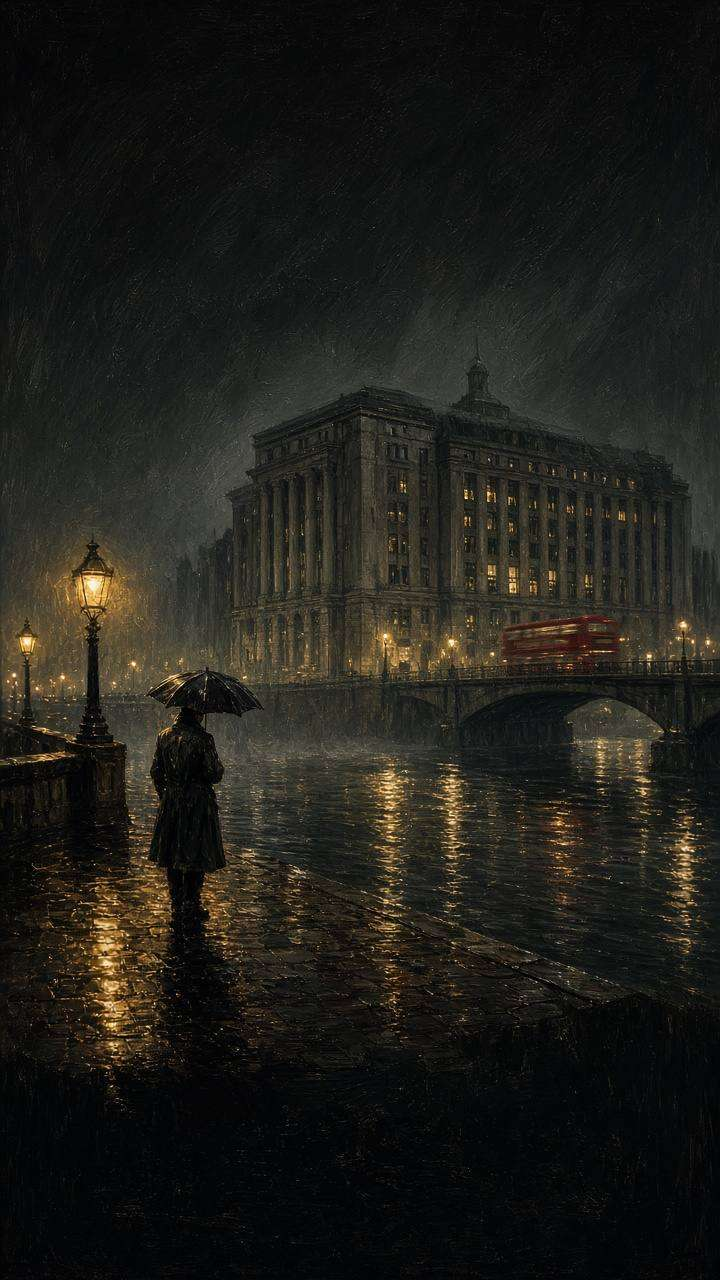
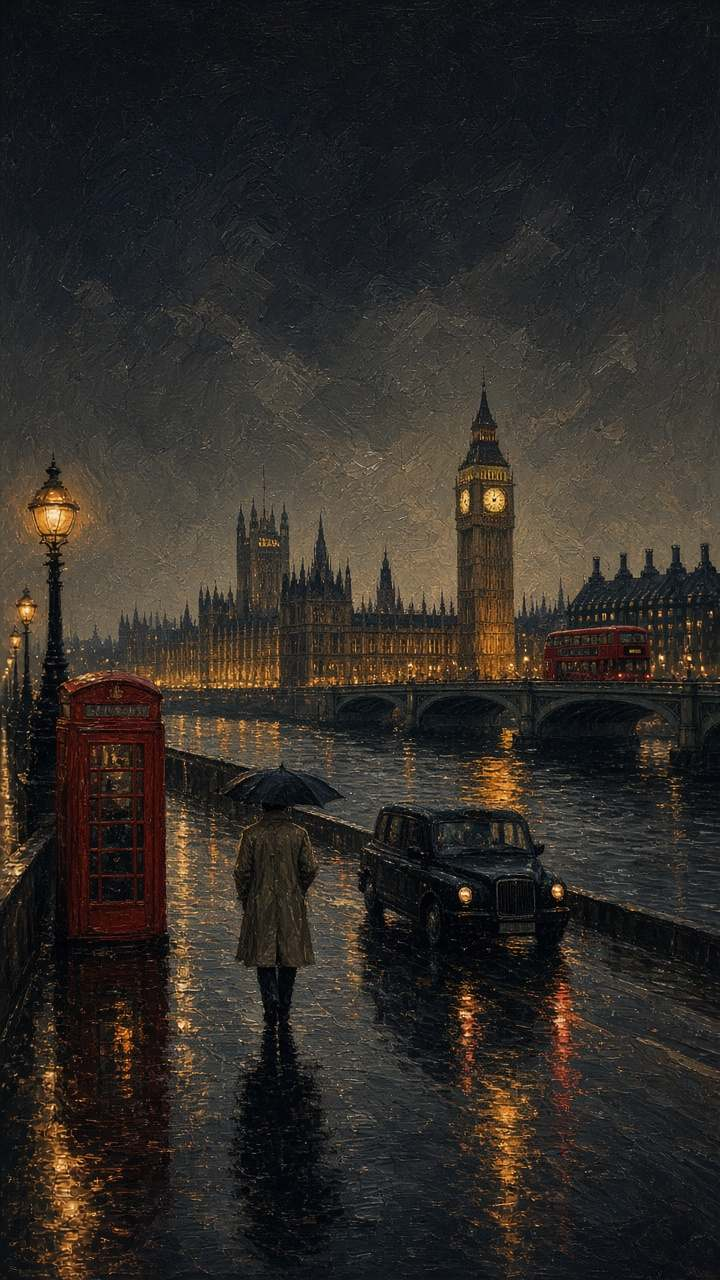
Spy prototype: make Albion House unmistakably British (Westminster title, No.10 scene, HMG paperwork, flag motifs)

diff --git a/spy/spy.js b/spy/spy.js
@@ -73,9 +73,10 @@
   const EMBLEM = '<svg class="emblem" viewBox="0 0 100 100" aria-hidden="true"><defs><linearGradient id="br" x1="0" y1="0" x2="0" y2="1"><stop offset="0" stop-color="#f0d68a"/><stop offset=".55" stop-color="#c9a24a"/><stop offset="1" stop-color="#7a5d22"/></linearGradient></defs>' +
     '<circle cx="50" cy="50" r="47" fill="#1f3a2f" stroke="url(#br)" stroke-width="4"/><circle cx="50" cy="50" r="40" fill="none" stroke="url(#br)" stroke-width="1"/>' +
     '<path d="M50 16 l4 9 h10 l-8 6 3 9 -9 -6 -9 6 3 -9 -8 -6 h10z" fill="url(#br)"/>' +
-    '<path d="M28 44 h44 v14 c0 12 -10 20 -22 24 c-12 -4 -22 -12 -22 -24z" fill="#7a1f1f" stroke="url(#br)" stroke-width="2"/>' +
-    '<path d="M33 60 q4 -4 8 0 t8 0 t8 0 t8 0 M33 67 q4 -4 8 0 t8 0 t8 0 t8 0" fill="none" stroke="#efe6d2" stroke-width="2"/>' +
-    '<path d="M40 52 h20" stroke="url(#br)" stroke-width="3"/></svg>';
+    '<clipPath id="sh"><path d="M28 44 h44 v14 c0 12 -10 20 -22 24 c-12 -4 -22 -12 -22 -24z"/></clipPath><g clip-path="url(#sh)" opacity=".85"><rect x="20" y="40" width="60" height="46" fill="#22305a"/>' +
+    '<path d="M20 40 L80 86 M80 40 L20 86" stroke="#efe6d2" stroke-width="8"/><path d="M20 40 L80 86 M80 40 L20 86" stroke="#9c2a2a" stroke-width="3"/>' +
+    '<path d="M50 40 V86 M20 63 H80" stroke="#efe6d2" stroke-width="11"/><path d="M50 40 V86 M20 63 H80" stroke="#9c2a2a" stroke-width="6"/></g>' +
+    '<path d="M28 44 h44 v14 c0 12 -10 20 -22 24 c-12 -4 -22 -12 -22 -24z" fill="none" stroke="url(#br)" stroke-width="2"/></svg>';
   // ---------- state ----------
   let S;
   function fresh() {
@@ -116,16 +117,18 @@
   // ---------- screens ----------
   function title() {
     chrome(false);
-    render('<div class="title"><div>' + EMBLEM + '<h1>Albion House</h1><div class="sub">The Overseas Intelligence Bureau</div></div>' +
-      '<div><p class="tag">London. Rain on the river. Four problems before midnight.</p><button class="btn primary" id="go">Take the chair</button><div class="fine">A work of fiction. All states, services, firms and people are invented.</div></div></div>');
+    render('<div class="title"><div>' + EMBLEM + '<h1>Albion House</h1><div class="sub">British Secret Intelligence</div><div class="flagband" aria-hidden="true"></div></div>' +
+      '<div><p class="tag">London. Rain on the river, Big Ben striking eight. Four problems before midnight.</p><button class="btn primary" id="go">Take the chair</button><div class="fine">A work of fiction. Albion House and every state, firm and person in it are invented.</div></div></div>');
     $("go").onclick = intro;
   }
   function intro() {
     chrome(false);
-    render('<div class="card" style="margin-top:calc(var(--safe-t) + 18px)"><span class="stamp corner">SECRET</span><div class="kicker">Personal file \u00b7 For the Chief only</div><h2 style="margin-top:10px">You are \u2018C\u2019.</h2>' +
-      '<p>You head <strong>Albion House</strong>, Britain\u2019s overseas intelligence service (invented), in a grey stone building on the Thames. You answer to the Prime Minister, <strong>Eleanor Hale</strong>, and to nobody else.</p>' +
+    render('<figure class="no10" id="no10"><img src="' + pic("no10") + '" alt="The Prime Minister hands C a file in a study at Number 10, a Union Flag by the window"><figcaption>10 Downing Street \u00b7 the study, 07:10</figcaption></figure>' +
+      '<div class="card dossier"><div class="lh">HIS MAJESTY\u2019S GOVERNMENT \u00b7 TOP SECRET \u00b7 UK EYES ONLY</div><span class="stamp corner">SECRET</span><div class="kicker">Personal file \u00b7 For C only</div><h2 style="margin-top:10px">You are \u2018C\u2019.</h2>' +
+      '<p>You are the Chief of <strong>Albion House</strong>, Britain\u2019s foreign intelligence service: the people who run Britain\u2019s spies abroad. (It\u2019s invented, but you\u2019ll know the type.) Your office looks across the Thames at Westminster. You answer to the Prime Minister, <strong>Eleanor Hale</strong>, at Number 10, and to nobody else.</p>' +
+      '<p>She has just handed you the morning file in her study. \u201cKeep Britain safe, C. And keep it out of the papers.\u201d</p>' +
       '<p>Your Chief of Staff, <strong>Kite</strong>, runs the building. Your officers in the field are brave, tired, and not all of them are entirely yours.</p>' +
-      '<p>Today four problems reach your desk. You have <strong>three officers</strong> and <strong>one day</strong>. You can\u2019t fix everything. Each choice moves four gauges: public trust, No.10\u2019s favour, officer safety and secrecy.</p>' +
+      '<p>Back across Whitehall, four problems reach your desk. You have <strong>three officers</strong> and <strong>one day</strong>. You can\u2019t fix everything. Each choice moves four gauges: public trust, No.10\u2019s favour, officer safety and secrecy.</p>' +
       '<button class="btn primary" id="go">Read the morning brief</button></div>');
     $("go").onclick = function () { chrome(true); meters(); ticker(); briefing(); };
   }
@@ -136,17 +139,17 @@
   function briefing() {
     if (!freeAgents().length || !remaining().length) return summary();
     const first = !S.log.length, flash = S.order.indexOf("sabotage") >= 0 && !S.done.sabotage, fresh = flash && !S.flashShown;
-    const line = first ? "Morning, C. Three files on the desk, three officers on the bench. Start with the one that frightens you most. Mind the deadlines."
+    const line = first ? "Morning, C. Tea\u2019s on the desk. Three files on the desk, three officers on the bench. Start with the one that frightens you most. Mind the deadlines."
       : fresh ? "<b>Flash from the night desk.</b> Someone means to cut a North Sea cable tonight. Two reports, two places. I\u2019ve put it top of the pile."
       : "Next. " + freeAgents().length + " officer" + (freeAgents().length > 1 ? "s" : "") + " left. Whatever we don\u2019t touch today will sort itself out, badly.";
     if (flash) S.flashShown = true;
     let list = "", n = 0;
     S.order.forEach(function (id) {
       const s = SITS[id], done = S.done[id], late = !done && S.hour >= s.due; n++;
-      list += '<button class="card sit' + (done ? " done" : "") + (s.flash && !done ? " flash" : "") + '" data-sit="' + id + '"' + (done ? " disabled" : "") + '><span class="num">' + ["I", "II", "III", "IV"][n - 1] + '</span><span><div class="t">' + esc(s.title) + '</div><div class="s">' + esc(s.where) + '</div></span><span class="dl">' +
+      list += '<button class="card dossier sit' + (done ? " done" : "") + (s.flash && !done ? " flash" : "") + '" data-sit="' + id + '"' + (done ? " disabled" : "") + '><span class="num">' + ["I", "II", "III", "IV"][n - 1] + '</span><span><div class="t">' + esc(s.title) + '</div><div class="s">' + esc(s.where) + '</div></span><span class="dl">' +
         (done ? (done === "win" ? "CLOSED" : done === "mixed" ? "PARTIAL" : "FAILED") : late ? "OVERDUE" : "by " + s.due + ":00") + "</span></button>";
     });
-    render('<div class="kicker">Morning brief \u00b7 Albion House</div>' + kite(line, fresh) + map() + list, "Tap a file to deal with it.");
+    render('<div class="lh paper">HIS MAJESTY\u2019S GOVERNMENT \u00b7 TOP SECRET \u00b7 UK EYES ONLY</div><div class="kicker">Morning brief for C \u00b7 Albion House</div>' + kite(line, fresh) + map() + list, "Tap a file to deal with it.");
     document.querySelectorAll("[data-sit]").forEach(function (b) { b.onclick = function () { const id = b.getAttribute("data-sit"); id === "sabotage" && !S.belief ? judgement() : pickAgent(id); }; });
   }
 
@@ -185,7 +188,7 @@
         return '<button class="card agent' + (pick === k ? " sel" : "") + (used ? " used" : "") + '" data-a="' + k + '"><img class="portrait" src="' + pic(st >= 4 ? a.alt : a.img) + '" alt=""><div style="flex:1;min-width:0"><div class="nm">' + a.name + (used ? " \u00b7 in the field" : "") + '</div><div class="role">' + a.role + '</div><div class="traits">' +
           pips(a.skill, "", "Skill") + pips(a.loyalty, "", "Loyalty") + pips(st, "stress" + (st >= 4 ? " high" : ""), "Stress") + pips(a.cover, "", "Cover") + '</div><div class="fit' + (fit ? "" : " bad") + '">' + (fit ? "\u2713 Right person for this" : "Not their line of work") + (id === "mole" && a.loyalty <= 2 ? " \u00b7 loyalty in doubt" : "") + "</div></div></button>";
       }).join("");
-      render('<div class="step"><i class="on"></i><i></i></div><div class="card"><span class="stamp corner">CONFIDENTIAL</span><div class="kicker">' + esc(s.where) + " \u00b7 by " + s.due + ":00" + (S.hour >= s.due ? " \u00b7 OVERDUE" : "") + '</div><h2 style="margin-top:8px;padding-right:110px">' + esc(s.title) + "</h2><p>" + esc(s.brief) + (id === "sabotage" ? " <strong>You\u2019re defending: " + (S.belief === "split" ? "both sites" : S.belief) + ".</strong>" : "") + '</p></div><div class="kicker" style="margin:4px 0 8px">Who do you send?</div><div class="agents">' + cards + '</div><div class="sticky-go"><button class="btn primary" id="go"' + (pick ? "" : " disabled") + ">" + (pick ? "Send " + AGENTS[pick].name.split(" ")[0] : "Choose an officer") + '</button></div><button class="btn ghost" id="back">Back to the brief</button>',
+      render('<div class="step"><i class="on"></i><i></i></div><div class="card dossier"><div class="lh">HIS MAJESTY\u2019S GOVERNMENT \u00b7 TOP SECRET \u00b7 UK EYES ONLY</div><span class="stamp corner">CONFIDENTIAL</span><div class="kicker">' + esc(s.where) + " \u00b7 by " + s.due + ":00" + (S.hour >= s.due ? " \u00b7 OVERDUE" : "") + '</div><h2 style="margin-top:8px;padding-right:110px">' + esc(s.title) + "</h2><p>" + esc(s.brief) + (id === "sabotage" ? " <strong>You\u2019re defending: " + (S.belief === "split" ? "both sites" : S.belief) + ".</strong>" : "") + '</p></div><div class="kicker" style="margin:4px 0 8px">Who do you send?</div><div class="agents">' + cards + '</div><div class="sticky-go"><button class="btn primary" id="go"' + (pick ? "" : " disabled") + ">" + (pick ? "Send " + AGENTS[pick].name.split(" ")[0] : "Choose an officer") + '</button></div><button class="btn ghost" id="back">Back to the brief</button>',
         "Step 1 of 2 \u00b7 Who goes? High stress means mistakes.");
       document.querySelectorAll("[data-a]").forEach(function (b) { b.onclick = function () { pick = b.getAttribute("data-a"); draw(); }; });
       $("go").onclick = function () { approach(id, pick); };
@@ -240,7 +243,7 @@
     meters(ch); ticker();
     render('<div class="card outcome ' + res + '"><span class="stamp">' + { win: "CLOSED", mixed: "PARTIAL", loss: "FAILED" }[res] + '</span><img class="portrait" src="' + pic(res === "loss" ? ag.alt : (k === "mira" && res === "win" ? ag.alt : ag.img)) + '" alt=""><h2>' + esc(s.title) + "</h2><p>" + esc(line) + (note ? " <strong>" + esc(note) + "</strong>" : "") + '</p><div class="deltas">' +
       Object.keys(ch).map(function (m) { return '<span class="' + (ch[m] >= 0 ? "up" : "down") + '">' + (ch[m] >= 0 ? "+" : "") + ch[m] + " " + mname(m) + "</span>"; }).join("") +
-      '</div><div class="headline"><small>The Evening Standard-Bearer \u00b7 late edition</small><div>' + esc(head) + "</div></div></div>" +
+      '</div><div class="headline"><small>The London Evening Bugle \u00b7 late edition</small><div>' + esc(head) + "</div></div></div>" +
       '<p style="font-family:var(--type);font-size:11.5px;text-align:center;margin:-2px 0 12px">' + odds + "% odds \u00b7 " + first + "\u2019s stress now " + S.stress[k] + "/5 \u00b7 clock " + S.hour + ':00</p><button class="btn primary" id="go">Back to the desk</button>',
       "The gauges moved. The papers noticed.");
     $("go").onclick = briefing;
@@ -261,14 +264,14 @@
     const extra = S.defector
       ? "The Vienna clerk, in her safe house, has seen the news. Her first words: <b>\u201cVass was only the first name on the list.\u201d</b>"
       : "A message on Kite\u2019s private line, unsigned: <b>\u201cYou left our clerk behind. Now you\u2019ll know how it feels.\u201d</b>";
-    render('<div class="card" style="text-align:center"><span class="stamp corner">TOP SECRET</span><div class="kicker">Cabinet Office \u00b7 report to the Prime Minister</div><div class="grade">' + grade + '</div><p style="font-size:17px;color:var(--paper-ink)"><strong>' + verdict + "</strong></p>" +
+    render('<div class="card dossier" style="text-align:center"><span class="stamp corner">TOP SECRET</span><div class="lh">HIS MAJESTY\u2019S GOVERNMENT \u00b7 TOP SECRET \u00b7 UK EYES ONLY</div><div class="kicker">From C to the Prime Minister \u00b7 10 Downing Street</div><div class="grade">' + grade + '</div><p style="font-size:17px;color:var(--paper-ink)"><strong>' + verdict + "</strong></p>" +
       '<ul class="log" style="text-align:left">' + S.log.map(function (l) {
         const s = SITS[l.id];
         return "<li>" + (l.k ? '<img class="portrait" src="' + pic(AGENTS[l.k].img) + '" alt="">' : '<span class="portrait" style="display:grid;place-items:center;background:#ddd2b6;font-family:var(--type);color:var(--oxblood)">\u2014</span>') +
           "<span><b>" + esc(s.title) + '</b><br><span style="font-family:var(--type);color:var(--paper-mute);font-size:11px">' + esc(l.appr) + (l.k ? " \u00b7 " + AGENTS[l.k].name.split(" ")[0] : "") + '</span></span><span class="r ' + l.res + '">' + { win: "CLOSED", mixed: "PARTIAL", loss: "FAILED" }[l.res] + "</span></li>";
       }).join("") + "</ul></div>" +
       '<div class="flash-card" id="flash"><div class="bar"><span class="stamp">FLASH \u00b7 MOST IMMEDIATE</span><span class="time">23:47 \u00b7 BATH</span></div><div class="tele">' +
-      "C \u2014 Avon Police report a man collapsed on a bench near the Circus. He is <b>Pieter Vass</b>, a former Grey House officer we resettled here under a new name in 2019. Alive, unconscious. The government laboratory has identified a Varenian compound code-named <b>PALE HOUR</b>. No.10 wants you at Downing Street by seven.<br><br>" + extra + "<br><br>\u2014 Kite</div></div>" +
+      "<span class=\"hdr\">TO: C &nbsp;\u00b7&nbsp; FROM: KITE, ALBION HOUSE<br>HMG \u00b7 TOP SECRET \u00b7 UK EYES ONLY</span>C \u2014 Avon Police report a man collapsed on a bench near the Circus. He is <b>Pieter Vass</b>, a former Grey House officer we resettled here under a new name in 2019. Alive, unconscious. The government laboratory has identified a Varenian compound code-named <b>PALE HOUR</b>. No.10 wants you at Downing Street by seven.<br><br>" + extra + "<br><br>\u2014 Kite</div></div>" +
       '<button class="btn primary" id="again">Play the day again</button><a class="btn ghost" href="../index.html">Back to Ashline</a>',
       "To be continued. Try other officers and plans.");
     $("again").onclick = function () { fresh(); title(); };

diff --git a/spy/spy.css b/spy/spy.css
@@ -170,3 +170,24 @@ p strong { color: inherit; }
 .report .rel{font-family:var(--type);font-size:10.5px;letter-spacing:.06em;text-transform:uppercase;color:var(--oxblood);border:1px solid currentColor;padding:1px 6px;border-radius:2px}
 .card:has(> .stamp.corner) > .kicker:first-of-type{padding-right:118px}
 .stamp.corner{top:10px;right:10px}
+/* British touches */
+.flagband{width:120px;height:10px;margin:12px auto 0;opacity:.55;border-radius:2px;background:
+ linear-gradient(90deg,transparent 44%,#a8282c 44% 56%,transparent 56%),
+ linear-gradient(0deg,transparent 30%,#a8282c 30% 70%,transparent 70%),
+ linear-gradient(90deg,transparent 40%,#efe6d2 40% 60%,transparent 60%),
+ linear-gradient(0deg,transparent 15%,#efe6d2 15% 85%,transparent 85%),#22305a;box-shadow:0 2px 8px rgba(0,0,0,.6)}
+.lh{font-family:var(--type);font-size:9.5px;letter-spacing:.12em;color:var(--oxblood);border-bottom:1px solid rgba(122,31,31,.35);padding-bottom:6px;margin:-2px 0 10px;padding-right:0}
+.lh.paper{color:var(--brass-hi);border-color:rgba(201,162,74,.35);margin:0 0 8px}
+.card.dossier{position:relative}
+.card.dossier::after{content:"";position:absolute;top:-1px;left:16px;width:22px;height:13px;border-radius:0 0 2px 2px;box-shadow:0 1px 2px rgba(0,0,0,.35);background:
+ linear-gradient(90deg,transparent 42%,#a8282c 42% 58%,transparent 58%),linear-gradient(0deg,transparent 35%,#a8282c 35% 65%,transparent 65%),
+ linear-gradient(90deg,transparent 36%,#efe6d2 36% 64%,transparent 64%),linear-gradient(0deg,transparent 24%,#efe6d2 24% 76%,transparent 76%),#22305a}
+.card.dossier.sit::after{left:auto;right:14px}
+.card.dossier > .stamp.corner{top:26px}
+.no10{margin:calc(var(--safe-t) + 14px) 0 12px;position:relative}
+.no10 img{width:100%;display:block;border:6px solid #efe6d2;box-shadow:0 10px 24px rgba(0,0,0,.6);transform:rotate(-.8deg)}
+.no10 figcaption{font-family:var(--type);font-size:11px;color:var(--fog-2);text-align:center;margin-top:8px;letter-spacing:.08em}
+.tele .hdr{display:block;font-size:10.5px;letter-spacing:.1em;color:var(--oxblood);border-bottom:1px dashed rgba(0,0,0,.3);padding-bottom:6px;margin-bottom:8px}
+.lh{font-size:8.6px;letter-spacing:.05em;white-space:nowrap;overflow:hidden;text-overflow:clip}
+.card.dossier > .stamp.corner{top:34px}
+.card.dossier > .lh + .stamp.corner + .kicker{padding-right:118px}
